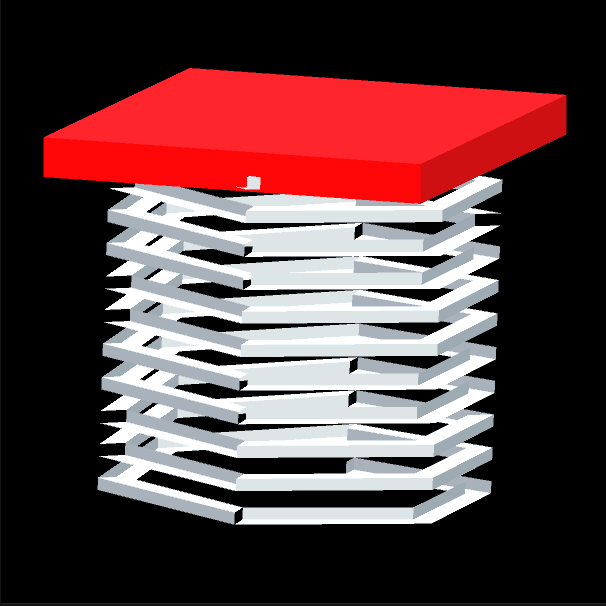
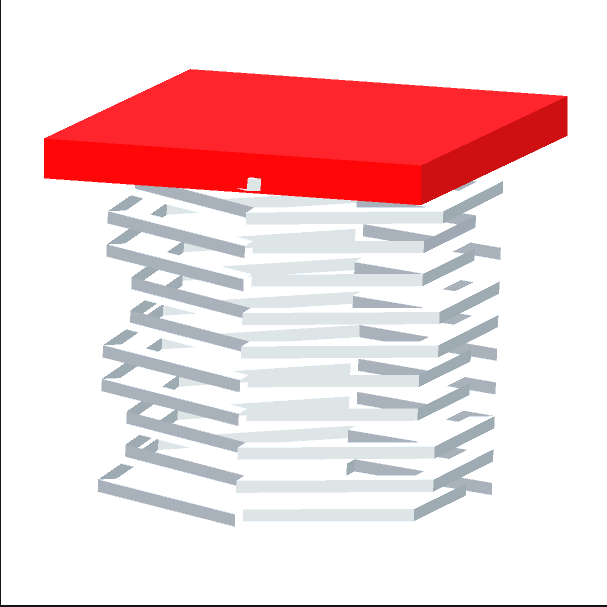
redid photos and made background white

diff --git a/Toy World/Assets/Scripts/UI Scripts/SavePrefabPicture.cs b/Toy World/Assets/Scripts/UI Scripts/SavePrefabPicture.cs
@@ -13,11 +13,6 @@ public class SavePrefabPicture : MonoBehaviour
     {
         GameObject picturePrefab = GameObject.FindGameObjectWithTag("Part");
 
-        if (picturePrefab==null)
-        {
-            picturePrefab = GameObject.FindGameObjectWithTag("CoreBlock");
-        }
-
         Camera screenshotCam = GetComponent<Camera>();
         screenshotCam.targetTexture = RenderTexture.GetTemporary(Screen.width, Screen.height, 16);
         RenderTexture newRender = screenshotCam.targetTexture;
